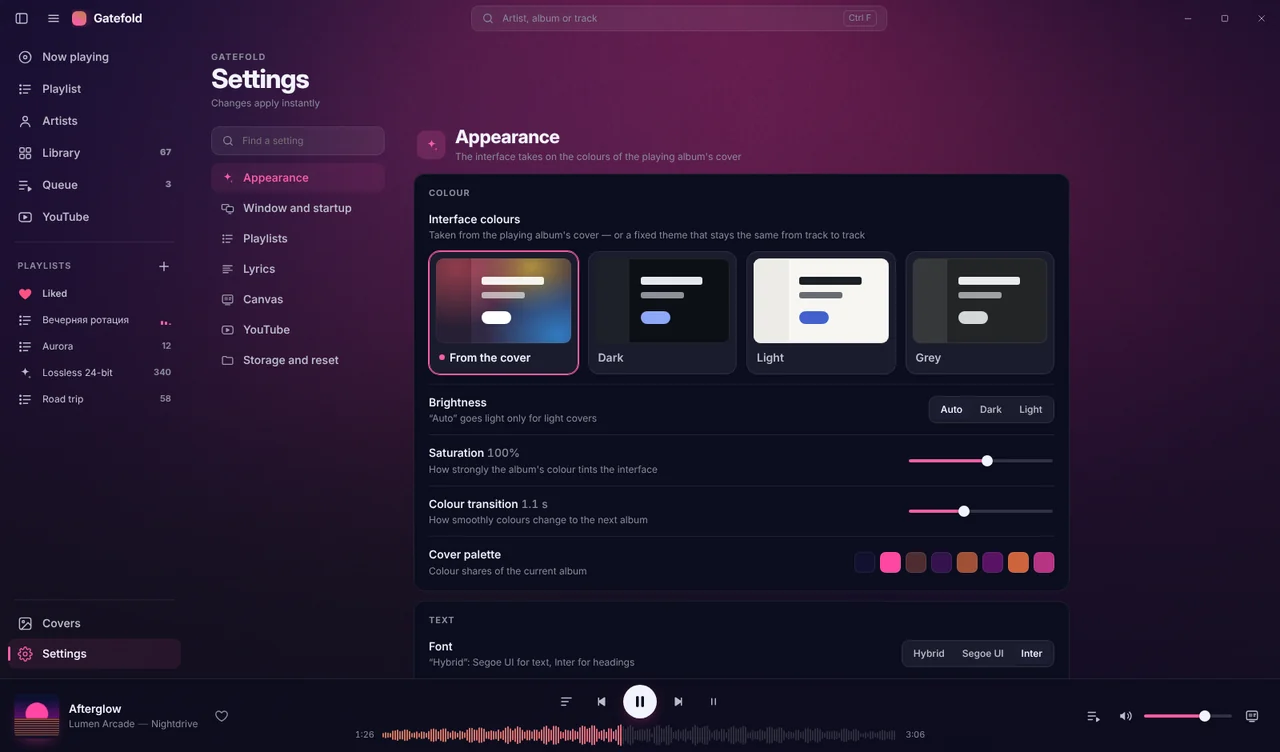
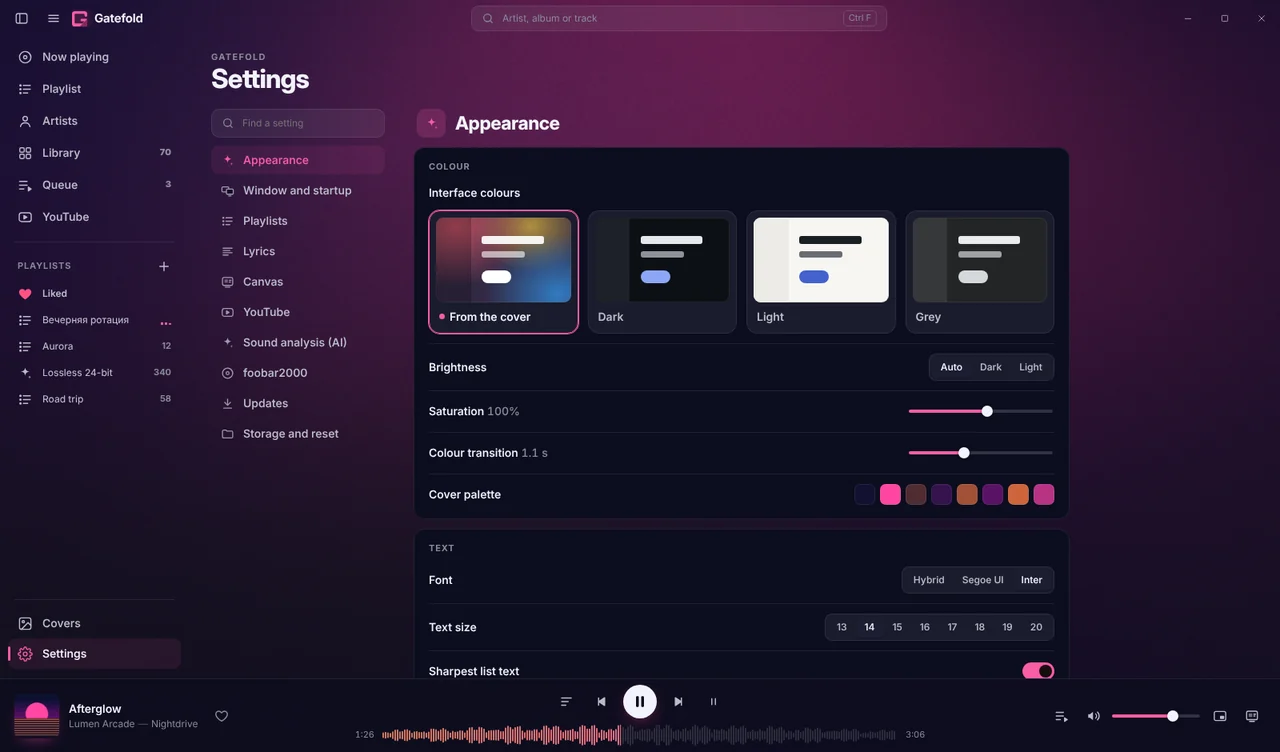
Release prep: README with the mark, new screenshots (colour wall, smart playlists) and a grouped feature list; clean 1.0.0 notes; release workflow dry run + archive check; CI logs only on failure; probe by hand only

diff --git a/tools/screenshots.py b/tools/screenshots.py
@@ -18,18 +18,20 @@ async def main():
         kw = {'executable_path': os.environ['CHROMIUM']} if os.environ.get('CHROMIUM') else {}
         b = await p.chromium.launch(**kw)
         shots = [
-            ('now', {'language': 'en'}, None),
-            ('playlist', {'language': 'en'}, "document.querySelector('#plModes [data-m=covers]').click()"),
-            ('library', {'language': 'en'}, None),
-            ('settings', {'language': 'en', 'colorSource': 'album'}, None),
-            ('now', {'language': 'en', 'colorSource': 'light'}, None),
-            ('now', {'language': 'ru'}, None),
+            ('now', {'language': 'en'}, None, 'now-en'),
+            ('playlist', {'language': 'en'}, "document.querySelector('#plModes [data-m=covers]').click()", 'playlist-en'),
+            ('library', {'language': 'en'}, None, 'library-en'),
+            ('library', {'language': 'en'}, "(async () => { const s = document.querySelector('#libSort'); s.value = 'color'; s.dispatchEvent(new Event('change')); await new Promise(r => setTimeout(r, 4500)); })()", 'colors-en'),
+            ('playlist', {'language': 'en'}, "import('/theme/js/smartpl.js').then(m => m.open('lossless'))", 'smart-en'),
+            ('settings', {'language': 'en', 'colorSource': 'album'}, None, 'settings-en'),
+            ('now', {'language': 'en', 'colorSource': 'light'}, None, 'now-light-en'),
+            ('now', {'language': 'ru'}, None, 'now-ru'),
         ]
-        for i, (view, st, js) in enumerate(shots):
+        for i, (view, st, js, name) in enumerate(shots):
             ctx, pg, errs = await e2e.page(b, port, st)
             await e2e.nav(pg, view, 1600)
-            if js: await pg.evaluate(js); await pg.wait_for_timeout(1400)
-            name = f"{view}{'-' + st.get('colorSource') if st.get('colorSource') not in (None, 'album') else ''}-{st['language']}.png"
+            if js: await pg.evaluate(js); await pg.wait_for_timeout(1600)
+            name += '.png'
             await pg.screenshot(path=str(OUT / name))
             from PIL import Image
             im = Image.open(OUT / name).convert('RGB'); im = im.resize((1280, round(im.height * 1280 / im.width)), Image.LANCZOS)

diff --git a/README.ru.md b/README.ru.md
@@ -1,38 +1,48 @@
-# Gatefold
+<p align="center"><img src="installer/assets/gatefold.svg" width="88" alt=""></p>
+<h1 align="center">Gatefold</h1>
+<p align="center"><b>Современный интерфейс для foobar2000, который берёт цвета из вашей музыки.</b><br>
+<a href="../../releases/latest"><b>Скачать установщик</b></a> · <a href="README.md">English version</a></p>
 
-**Современный интерфейс для foobar2000, который берёт цвета из вашей музыки.**
-[English version →](README.md)
-
-Gatefold — тема для компонента [foo_ui_webview2](https://github.com/NereaFantasia/foo_ui_webview2). Она заменяет интерфейс foobar2000 полноценным плеером на всё окно. Палитра на лету строится из обложки играющего альбома. В теме есть медиатека, исполнители, плейлисты, синхронный текст, полноэкранный «Холст», YouTube и автоматические обложки.
+Gatefold — тема для компонента [foo_ui_webview2](https://github.com/NereaFantasia/foo_ui_webview2). Она превращает foobar2000 в плеер на всё окно, палитра которого на лету строится из обложки играющего альбома: медиатека, исполнители, плейлисты, синхронный текст, полноэкранный «Холст», YouTube и (по желанию) анализ звука прямо на компьютере. Установщик всё настраивает сам: запустите его — и foobar2000 откроется в Gatefold.
 
 ![Сейчас играет](docs/screenshots/now-ru.webp)
 
-| Плейлист с обложками | Медиатека |
+| Плейлист с обложками | Медиатека по цвету обложек |
 |---|---|
-| ![Плейлист](docs/screenshots/playlist-en.webp) | ![Медиатека](docs/screenshots/library-en.webp) |
+| ![Плейлист](docs/screenshots/playlist-en.webp) | ![Стена по цветам](docs/screenshots/colors-en.webp) |
+| **Умные плейлисты** | **Постоянная светлая тема** |
+| ![Умные плейлисты](docs/screenshots/smart-en.webp) | ![Светлая тема](docs/screenshots/now-light-en.webp) |
 
 <sub>На скриншотах — условные обложки из тестовых данных, а не настоящие альбомы.</sub>
 
 ## Возможности
 
-- **Цвета из альбома.** Роли цветов подбираются из каждой обложки (k-means в OKLab) с контролем контраста по WCAG. Можно выбрать и постоянную тему: **Тёмную**, **Светлую** или **Серую**.
-- **«Сейчас играет».** Крупная обложка «дышит» под бас, спектр — в цветах альбома. Бейджи показывают кодек, разрядность и частоту, битрейт, DR, ReplayGain и число прослушиваний.
-- **Плейлисты в четырёх видах:** по альбомам, с обложками, плитками и компактно. Вид запоминается для каждого плейлиста.
-- **Настоящее редактирование плейлистов:** выделение с Shift/Ctrl, перетаскивание для порядка и на плейлист в боковой панели, Delete, Ctrl+Z (отмена самого foobar2000), Alt+↑/↓; плейлисты тоже переставляются перетаскиванием.
-- **Умные плейлисты без языка запросов:** недавно добавленные, самое любимое, забытые любимцы, ни разу не слушал, жанр, десятилетие, без потерь, Hi-Res… — с живым счётчиком подходящих треков. Пополняются сами.
-- **Радио «Похожее на это»:** похожие исполнители, которые у вас есть (связанные исполнители Deezer и их связанные; редкие жанры — как запасной вариант), и каждый трек-кандидат *прослушивается* — громкость, динамика, яркость, атака, темп, — чтобы грустное медленное не сменилось бешеным. Пропущенные исполнители звучат реже; плейлист сам пополняется.
-- **Анализ звука нейросетью (по желанию):** нейросеть Discogs-EffNet один раз слушает каждый трек медиатеки — у вас на компьютере, в фоне, не больше четверти одного ядра, пока вы работаете. С ней радио подбирает треки по тому, как они *звучат*, а не по тегам; «Похожие треки» собирают плейлист из самых близких по звучанию песен; в умных плейлистах появляются настроения (спокойное, энергичное, грустное, радостное, для вечеринки, инструментальное, акустическое) и 400 стилей Discogs; на «Сейчас играет» видны жанры и настроение трека — жанры альбома и исполнителя по голосам MusicBrainz, упорядоченные по звучанию трека; для исполнителей, которых MusicBrainz не знает, — жанры самых похоже звучащих. Модели (~30 МБ, CC BY-NC-SA 4.0, только некоммерческое использование) скачиваются, только когда вы включите это в Настройках → Анализ звука (ИИ).
-- **«Понравившиеся».** Сердечко есть в плеере и в каждой строке. Лайки хранятся в обычном плейлисте foobar2000.
-- **Медиатека и исполнители:** сетки обложек, сортировки по «недавно добавленным» и «проигранным», страницы альбомов. Альбомы, разбитые из-за гостевых исполнителей, склеиваются обратно.
-- **Стена по цветам:** сортировка медиатеки по цвету обложек — радуга ваших альбомов — и один из двенадцати подписанных цветов (от красного до розового, коричневый, белый, серый, чёрный), чтобы оставить только его. Каждой обложке достаётся цвет, которым её назвал бы человек: кожа, кремовый и бежевый считаются белым, рамка весит меньше картинки.
-- **Windows вокруг окна:** ⏮ ⏯ ⏭ ♡ в миниатюре на панели задач, прогресс на значке, по желанию значок в трее с меню плеера (сворачивать и закрывать в трей) и **мини-плеер** поверх всех окон.
-- **Синхронный текст:** из тегов или `.lrc` рядом с треком, затем онлайн (LRCLIB). Текущая строка подсвечивается, щелчок по строке перематывает, `[` и `]` сдвигают тайминг.
-- **Холст:** полноэкранный «Сейчас играет» с медленным движением, текстом и часами. Открывается и на втором мониторе.
-- **YouTube.** Видео открываются по ссылке, а со своим ключом YouTube Data API есть и поиск. Своя панель управления, выбор качества, очередь, история и мини-плеер. Музыка встаёт на паузу, пока идёт видео.
-- **Обложки:** поиск недостающих (iTunes · Deezer · MusicBrainz/CAA), проверка качества уже установленных и замена слабых с резервной копией.
-- **Ваш foobar2000 остаётся вашим.** Правый щелчок открывает родное контекстное меню, ☰ — полное главное меню, все компоненты на месте.
-- **Русский и английский языки.** Язык берётся из Windows или задаётся в Настройки → Окно и запуск → Язык.
-- **Режим приколов** (секрет: 10 щелчков по надписи «Gatefold») — три полноценных стиля интерфейса и 45 достижений.
+**Вид и прослушивание**
+- **Цвета из альбома** — роли цветов подбираются из каждой обложки (k-means в OKLab, контраст по WCAG). Или постоянная **Тёмная**, **Светлая** или **Серая** тема; размер текста 13–20 px; анимации на частоте вашего монитора.
+- **«Сейчас играет»** — крупная обложка «дышит» под бас, спектр в цветах альбома, бейджи формата (кодек, разрядность и частота, битрейт, DR, ReplayGain, число прослушиваний), синхронный текст и «Далее».
+- **Холст** — полноэкранный «Сейчас играет» с медленным движением, текстом и часами; открывается и на втором мониторе.
+- **Синхронный текст** из тегов, `.lrc` рядом с треком или LRCLIB; щелчок по строке перематывает, `[` `]` сдвигают тайминг.
+
+**Ваша музыка**
+- **Плейлисты в четырёх видах** (по альбомам, с обложками, плитками, компактно) с настоящим редактированием: выделение с Shift/Ctrl, перетаскивание внутри и на плейлист в боковой панели, Delete, Ctrl+Z, Alt+↑/↓.
+- **Медиатека и исполнители** — сетки обложек, страницы альбомов, фото исполнителей; альбомы, разбитые гостевыми исполнителями, склеиваются обратно. **Стена по цветам** сортирует медиатеку по цвету обложек и оставляет один из двенадцати подписанных цветов.
+- **Умные плейлисты без языка запросов** — недавно добавленные, самое любимое, забытые любимцы, ни разу не слушал, жанр, десятилетие, без потерь, Hi-Res, длинные треки или свой запрос; до создания видно, сколько треков подходит, и несколько примеров. Пополняются сами.
+- **Радио «Похожее на это»** — похожие исполнители, которые у вас есть, и каждый трек-кандидат проверяется по звучанию, чтобы настроение держалось; пропущенные исполнители звучат реже.
+- **«Понравившиеся»** — сердечко в плеере и в каждой строке, хранятся в обычном плейлисте foobar2000.
+- **Обложки** — поиск недостающих (iTunes · Deezer · MusicBrainz/CAA), проверка качества имеющихся и замена слабых (с резервной копией).
+
+**Анализ звука нейросетью (по желанию)**
+- Нейросеть Discogs-EffNet один раз слушает каждый трек медиатеки — у вас на компьютере, в фоне, с выбранной скоростью (от «Бережно» до «Максимум»). Результаты не покидают компьютер.
+- С ней радио и «Похожие треки» подбирают песни по тому, как они *звучат*; в умных плейлистах появляются настроения — спокойное, энергичное, грустное, радостное, для вечеринки, инструментальное (совсем без голоса), акустическое — и жанры по звучанию; на «Сейчас играет» видны жанры трека (голоса MusicBrainz, упорядоченные по звучанию) и настроение.
+- Модели (~30 МБ, CC BY-NC-SA 4.0, только некоммерческое использование) скачиваются, только когда вы включите это в Настройках → Анализ звука (ИИ).
+
+**Вокруг окна**
+- ⏮ ⏯ ⏭ ♡ в миниатюре на панели задач, прогресс на значке, по желанию значок в трее с меню плеера и **мини-плеер** поверх всех окон.
+- **YouTube** — по ссылке или поиск со своим ключом YouTube Data API; своя панель управления, качество, очередь, история и мини-плеер. Музыка встаёт на паузу, пока идёт видео.
+- **Ваш foobar2000 остаётся вашим** — правый щелчок открывает родное контекстное меню, ☰ — полное главное меню, все компоненты на месте. В Настройки → foobar2000 есть вывод звука, ReplayGain, DSP и всё дерево Advanced.
+- **Русский и английский** — язык берётся из Windows или задаётся в настройках.
+- **Обновление в один щелчок** из релизов этого репозитория, с проверкой контрольной суммы и «Вернуть предыдущую версию».
+- **Режим приколов** (секрет: 10 щелчков по надписи «Gatefold») — три стиля интерфейса и 45 достижений.
 
 ## Требования
 
@@ -104,7 +114,8 @@ Gatefold — тема для компонента [foo_ui_webview2](https://gith
 
 ## Если что-то не так
 
-- **Белая или тестовая страница** — не выбран шаблон `gatefold`, или `index.html` лежит не прямо в папке шаблона.
+- **foobar2000 открывается в старом интерфейсе** — выберите **Webview2 UI** в Preferences → Display (установщик делает это сам; это для ручной установки или если он не смог этого сделать).
+- **Белая или тестовая страница** — не выбран шаблон, или `index.html` лежит не прямо в папке шаблона.
 - **Обложки не скачиваются** — посмотрите «Последнюю ошибку» на экране «Обложки». В View → Console есть строки `[Gatefold]`. Если папка с музыкой только для чтения, сохранить обложку некуда.
 - **Странности с окном** — Настройки → Окно и запуск → выключите «Собственную рамку окна» и нажмите Ctrl+R.
 - **Отладка** — Preferences → WebView2 UI → включите DevTools, затем нажмите F12.

diff --git a/CHANGELOG.md b/CHANGELOG.md
@@ -4,44 +4,14 @@ All notable changes are listed here. Versions follow [Semantic Versioning](https
 
 ## [1.0.0] — first public release
 
-- **Gatefold** (formerly a private theme called “Aurora”): a full-window foobar2000 interface on foo_ui_webview2.
-- Album-driven colour, or fixed Dark / Light / Grey themes; text size 13–20 px.
-- Now playing, playlists in four views, Liked, library, artists, queue, search, synced lyrics, Canvas, YouTube, cover art tools.
-- English and Russian interface.
-- Unofficial lyrics sources and the unofficial YouTube search are off by default; YouTube search with your own Data API key.
-- Installer: installs or updates foobar2000 x64, foo_ui_webview2 and the WebView2 Runtime; updates an existing template in place.
-- One-click updates from GitHub Releases inside the interface: checksum-verified, with a backup and «Restore previous version»; falls back to the installer when a newer foo_ui_webview2 is required.
-- The theme's own tooltips replace the native ones, which foobar2000's window drew away from the cursor and cut off.
-- Volume control in Canvas (slider, mouse wheel, ↑/↓, M).
-- First run: while foobar2000 has no music, «Now playing» shows a welcome — connect a music folder to the library (opens the right foobar2000 page, waits, then opens Library) or open a folder / files to play right away. Empty Library, Artists and playlist screens offer the same buttons.
-- Playlist editing: multi-select, Delete, drag to reorder or onto a sidebar playlist, undo/redo, Alt+↑/↓, a selection bar and a context menu of our own; playlists reorder by dragging.
-- Taskbar thumbnail buttons (translated, with ♡), taskbar progress, optional tray icon with a player menu, minimize/close to tray; a mini player window.
-- Smart playlists from recipes, with a live match count.
-- Library → «By cover colour» with a colour ribbon filter.
-- «More like this» radio from your own library: Deezer related artists (two steps), IDF-weighted genres as a fallback, every candidate track measured by sound (vibe.js) and kept close to the seed's feel; skips lower an artist; tops itself up.
-- Radio, second pass: second-step related artists only when several related artists point to them; major/minor key from the chroma as a sound feature; the target stays at the seed's feel; «Not this — no more <artist>» in a radio's context menu.
-- The theme's own drop-down lists: the native ones opened away from the control and were cut off.
-- Fix: two different albums with the same title in one folder (e.g. «Eternity» by Anathema and by Kamelot) were merged into one.
-- Menus open above dialogs.
-- **Sound analysis (AI)**, optional: Discogs-EffNet and its mood heads run in a Web Worker (onnxruntime-web, WebAssembly, one thread) over two 8-second pieces of every track, decoded by foobar2000 at 16 kHz; the mel front end matches Essentia's to 4·10⁻⁶. A background indexer (playing track and radio candidates first; ≤ ¼ core while you work, ≤ ½ when away, paused on battery) keeps the results in IndexedDB. The models are built and checked against Essentia by the «ML assets» workflow and downloaded on request.
-- Radio v3 (with the analysis): artists that sound like the seed join the candidates; of each artist the closest-sounding analysed track is played; at most 4 tracks per artist in any 25.
-- «Similar tracks» (Now playing, track menu), mood and style playlists (Smart playlist → By sound), style and mood chips on Now playing.
-- Colour wall, second version: twelve named colours with their names and counts on the ribbon; each pixel is named in OKLCH (borders where colour names change), vivid pixels and the centre weigh more, skin / cream / beige count as white; a strong second colour also lists the cover (after the main ones).
-- Lighter on the computer: the background blobs are painted into a small canvas 12 times a second instead of four screen-sized layers composited 60 times a second; the spectrum is drawn at most 60 times a second on high-refresh screens; away from Now playing the progress bar wakes only when it moves a pixel; the sound analysis decodes the next track while the network works on the current one, paces itself by the work actually done (not by waiting for foobar2000) and reads two 8-second pieces instead of three 6-second ones; its results load in batches.
-- Sound analysis, third pass: 44 s of each track (two 24-second pieces, non-overlapping patches) instead of 16 s; the styles shown are weighed with the album's average (Discogs labels releases) and against your library (a specific style beats «Heavy Metal»), a style named by your genre tag counts extra, and the chip's tooltip lists what the network hears; «Analysis speed»: Gentle / Normal / Fast / Maximum (up to three networks at once); decoding at the file's own rate with resampling in Gatefold when foobar2000's resampler is the slower path (measured once a week).
-- Genres, done the way streaming services do: your specific genre tag, else MusicBrainz genres of the album (release group) and the artist — the artist verified against your albums — ordered by the network's per-track estimate; for artists MusicBrainz lacks, the genres of the closest-sounding tracks by artists it knows; the network's Discogs styles only as the last resort. The network alone confused subgenres (Ensiferum as «Gothic Metal», Carcass as «Nu Metal»). «Genre by sound» smart playlists use the same genres. MusicBrainz requests are shared with the cover search's rate limit, which now also holds for callers running side by side.
-- Mood playlists are made of songs: intros, interludes, outros and pieces under 2:20 are left out (they are quiet and filled «Calm»); «Calm» prefers songs with a voice; at most two tracks per album.
-- Less text: settings rows are a label and a control (the explanations live on as code comments), no section subtitles, smart-playlist cards are just names, shorter toasts, empty states and welcome screen; about 170 interface strings fewer. `node tools/check.mjs --prune` drops translations nothing uses any more.
-- «Animation smoothness»: as the monitor (default — spectrum, cover and background at 120/144/240 Hz) or economical (spectrum ≤ 60 fps, background 12 fps).
-- Settings → foobar2000: output device and buffer, ReplayGain, DSP preset, playlist cursor behaviour, library folders and the whole Advanced tree with search — in the theme instead of the native Preferences dialog, which stays one click away.
-- Fix: clicks sometimes stopped working (the cursor moved and the wheel scrolled, but no button reacted). Pulling a cover, a link or selected text a few pixels started a native drag-and-drop whose end never reached the page under foo_ui_webview2, leaving it «in a drag» for good; the page no longer starts native drags. Also: the «drop files here» overlay can no longer outlive a cancelled drag from Explorer and cover the screen, half-finished drags (seek bar, playlist rows) reset when the window loses the mouse or focus, and a menu replaced by another one settles cleanly. New stability test: seeded random clicking across every screen, a track-change storm, DOM and listener counts over many screen changes.
-- Fix: «Instrumental» took sung tracks. A track's voice/instrumental score was averaged over the whole piece, and anything above 35 % instrumental qualified — a song with a long guitar solo, or growls under distorted guitars (where the network says ≈ 50/50), got in. Now the voice must win (almost) no part of the track (≥ 88 % of the analysed patches instrumental, and a clear average); a band that sings on everything else needs an even clearer case; «(Instrumental)» in the title always counts. Tracks analysed before keep a stricter average until they are looked at again in the background.
-- Every sound playlist has hard limits as well as a ranking: «Sad» is not also happy or party, «Calm» not aggressive or danceable, «Party» is danceable, «Acoustic» not electronic, and so on — nothing gets in on a weak middle score. The mood chips in Now playing follow the same rule (a mood is named only when its opposite is not heard too).
-- New smart-playlist window: recipes in three groups on the left (by listening, by tags, by sound — each sound recipe with its own icon and colour), the chosen one on the right with the live count in large type, its one setting, five tracks it would take, and the name and «Create» at the bottom; ↑/↓ walk the recipes. No more names running out of their tiles.
-- Fix: with large text, the lyrics or the «Up next» list ran under the player bar (Now playing now gives the panel only the room left); the mini player hides the times, then like and volume, before its controls run out of room; the Canvas window keeps its controls clear of the cover in small windows. A layout test checks every screen in both languages at 20 px text, narrow and wide, for text over text, text out of its box and controls over text.
-- Installer: «Gatefold» shortcuts in the Start menu and (optionally) on the desktop, with Gatefold's icon — pinned to the taskbar, the button keeps it. The window itself still shows foobar2000's icon: foo_ui_webview2 has no way to change it yet (requested in docs/UPSTREAM_REQUEST.md).
-- New icon: a G whose lower-right corner folds over like the panel of a gatefold sleeve (installer/assets/gatefold.svg) — for the installer, the shortcuts and the tray; next to the name in the window it takes the colours of the cover.
-- Installer: foobar2000 opens straight in Gatefold — no «New user interface module(s) found» question and no trip to Preferences. The installer sets Webview2 UI as the interface in foobar2000's configuration (`<profile>\config.sqlite`, the two values found by running foobar2000 2.26 on a clean Windows in CI), after a backup to `config.sqlite.before-gatefold`; if anything goes wrong nothing changes and the finish page shows the manual step as before. CI checks it: a silent install on a clean machine, then foobar2000's first start must be Gatefold.
-- Fix: on a small screen the first window could open larger than the screen, with its left edge and the sidebar out of reach; it is now fitted onto the screen and centred (a window kept partly on another monitor is left alone).
+Gatefold turns foobar2000 (2.x, 64-bit) into a full-window player on foo_ui_webview2 whose colours come from the cover of the playing album.
 
-The history before the public release (in Russian) is in [docs/HISTORY.ru.md](docs/HISTORY.ru.md).
+**Install** — one installer sets up foobar2000, foo_ui_webview2, the WebView2 Runtime and the theme, adds Gatefold shortcuts and makes Webview2 UI foobar2000's interface: foobar2000 opens straight in Gatefold (the previous configuration is backed up). Updates come later in one click, checksum-verified, with «Restore previous version».
+
+**Looks** — album-driven colour (or fixed Dark / Light / Grey), text size 13–20 px, animations at the monitor's refresh rate; Now playing with a breathing cover, spectrum, format badges and synced lyrics; full-screen Canvas, also on a second monitor; a mini player; taskbar buttons, progress and an optional tray icon.
+
+**Music** — playlists in four views with real editing (multi-select, drag, Delete, undo); Liked; library, artists and album pages; the colour wall (the library by cover colour, twelve named colours); smart playlists without the query language, with a live count and example tracks; «More like this» radio from your own library; cover art search and quality checks.
+
+**Sound analysis (optional, on your computer)** — a neural network listens to each track once; then radio and «Similar tracks» go by sound, smart playlists gain moods (calm, energetic, sad, happy, party, instrumental, acoustic) and genres by sound, and Now playing shows the track's genres (MusicBrainz, ordered by sound) and mood.
+
+**Also** — YouTube (links, or search with your own API key), foobar2000's own menus and settings inside the theme, English and Russian. No telemetry; every network request belongs to a feature (see Privacy in the README). Unofficial lyrics sources and the key-less YouTube search are off by default.

diff --git a/README.md b/README.md
@@ -1,40 +1,48 @@
-# Gatefold
+<p align="center"><img src="installer/assets/gatefold.svg" width="88" alt=""></p>
+<h1 align="center">Gatefold</h1>
+<p align="center"><b>A modern interface for foobar2000 that takes its colours from your music.</b><br>
+<a href="../../releases/latest"><b>Download the installer</b></a> · <a href="README.ru.md">Русская версия</a></p>
 
-**A modern interface for foobar2000 that takes its colours from your music.**
-[Русская версия →](README.ru.md)
-
-Gatefold is a theme for the [foo_ui_webview2](https://github.com/NereaFantasia/foo_ui_webview2) component. It replaces foobar2000's interface with a full-window player. The palette is built live from the cover art of the playing album, and the theme covers the whole player: library, artists, playlists, synced lyrics, a full-screen “Canvas” mode, YouTube, and automatic cover art.
+Gatefold is a theme for the [foo_ui_webview2](https://github.com/NereaFantasia/foo_ui_webview2) component. It turns foobar2000 into a full-window player whose palette is built live from the cover of the playing album — with your library, artists, playlists, synced lyrics, a full-screen Canvas, YouTube and an optional on-device sound analysis. The installer sets everything up: run it, and foobar2000 opens in Gatefold.
 
 ![Now playing](docs/screenshots/now-en.webp)
 
-| Playlist with covers | Library |
+| Playlist with covers | Library by cover colour |
 |---|---|
-| ![Playlist](docs/screenshots/playlist-en.webp) | ![Library](docs/screenshots/library-en.webp) |
-| **Settings** | **Fixed light theme** |
-| ![Settings](docs/screenshots/settings-en.webp) | ![Light theme](docs/screenshots/now-light-en.webp) |
+| ![Playlist](docs/screenshots/playlist-en.webp) | ![Colour wall](docs/screenshots/colors-en.webp) |
+| **Smart playlists** | **Fixed light theme** |
+| ![Smart playlists](docs/screenshots/smart-en.webp) | ![Light theme](docs/screenshots/now-light-en.webp) |
 
 <sub>Screenshots use placeholder artwork from the test fixtures, not real album covers.</sub>
 
 ## Features
 
-- **Album-driven colour.** k-means in OKLab picks the colour roles from each cover, with WCAG contrast control. Or choose a fixed **Dark**, **Light** or **Grey** theme.
-- **Now playing:** a large cover that breathes with the bass and a spectrum in the album's colours. Format badges show codec, bit depth / sample rate, bitrate, DR, ReplayGain and play count.
-- **Playlists in four views:** by album, with covers, tiles and compact. Each playlist remembers its own view.
-- **Real playlist editing:** select with Shift/Ctrl, drag to reorder or onto a playlist in the sidebar, Delete, Ctrl+Z (foobar2000's own undo), Alt+↑/↓; drag playlists to reorder them.
-- **Smart playlists without the query language:** recently added, most played, forgotten favourites, never played, a genre, a decade, lossless, hi-res… with a live count of matching tracks. They stay up to date by themselves.
-- **«More like this» radio:** similar artists you actually have (Deezer's related artists and theirs; specific genres as a fallback), and every candidate track is *listened to* — loudness, dynamics, brightness, attack, tempo — so a sad slow seed doesn't turn into a frantic one. Skipped artists come up less; the playlist keeps topping itself up.
-- **Sound analysis (AI), optional:** a neural network (Discogs-EffNet) listens to every track of your library once — on your computer, in the background, at most a quarter of one CPU core while you work. With it the radio picks tracks by how they *sound* (not by tags), **Similar tracks** builds a playlist of the closest-sounding songs, smart playlists gain moods (calm, energetic, sad, happy, party, instrumental, acoustic) and 400 Discogs styles, and Now playing shows the track's genres and mood — genres voted on MusicBrainz for the album and the artist, ordered by how the track sounds; for artists MusicBrainz does not know, the genres of the artists that sound closest. The models (~30 MB, CC BY-NC-SA 4.0, non-commercial) are downloaded only when you turn it on in Settings → Sound analysis (AI).
-- **Liked** — a heart in the player and on every row. Likes are stored in an ordinary foobar2000 playlist.
-- **Library and Artists:** cover grids, sorting by recently added or played, and album pages. Albums split by guest artists are merged back into one.
-- **The colour wall:** sort the library by cover colour — a rainbow of your albums — and pick one of twelve named colours (red … pink, brown, white, grey, black) to see only those covers. Every cover gets the colour a person would name: skin, cream and beige count as white, a frame counts less than the picture.
-- **Windows around the window:** ⏮ ⏯ ⏭ ♡ on the taskbar thumbnail, progress on the taskbar button, an optional tray icon with a player menu (minimize / close to tray), and a **mini player** that stays above other windows.
-- **Synced lyrics:** from tags or an `.lrc` next to the track, then online (LRCLIB). Lines are highlighted as they play, click a line to seek, and `[` `]` adjust the timing.
-- **Canvas:** full-screen Now playing with slow motion, lyrics and a clock. It can open on a second monitor.
-- **YouTube:** paste a link, or search with your own YouTube Data API key. The player has its own controls, quality selection, a queue, history and a mini player. Music pauses while a video plays.
-- **Cover art:** finds missing covers (iTunes · Deezer · MusicBrainz/CAA), checks the quality of the covers you have, and replaces weak ones (with backups).
-- **Your foobar2000 stays yours:** right-click opens the native context menu, ☰ opens the full main menu, and all your components still work.
-- **English and Russian** — picked from Windows, or set in Settings → Window and startup → Language.
-- **Fun mode** (hidden — click the “Gatefold” title ten times): three complete interface styles and 45 achievements.
+**Looks and listening**
+- **Album-driven colour** — the colour roles are picked from each cover (k-means in OKLab, WCAG contrast). Or a fixed **Dark**, **Light** or **Grey** theme; text size 13–20 px; animations at your monitor's refresh rate.
+- **Now playing** — a large cover that breathes with the bass, a spectrum in the album's colours, format badges (codec, bit depth / sample rate, bitrate, DR, ReplayGain, play count), synced lyrics and up next.
+- **Canvas** — full-screen Now playing with slow motion, lyrics and a clock; it can open on a second monitor.
+- **Synced lyrics** from tags, an `.lrc` next to the track or LRCLIB; click a line to seek, `[` `]` to adjust the timing.
+
+**Your music**
+- **Playlists in four views** (by album, with covers, tiles, compact) with real editing: Shift/Ctrl selection, drag to reorder or onto a sidebar playlist, Delete, Ctrl+Z, Alt+↑/↓.
+- **Library and Artists** — cover grids, album pages, artist photos; albums split by guest artists are merged back. **The colour wall** sorts the library by cover colour and filters by one of twelve named colours.
+- **Smart playlists without the query language** — recently added, most played, forgotten favourites, never played, a genre, a decade, lossless, hi-res, long tracks or your own query; a live count and a few example tracks before you create it. They stay up to date by themselves.
+- **«More like this» radio** — similar artists you actually have, every candidate track measured by its sound so the mood holds; skipped artists come up less.
+- **Liked** — a heart in the player and on every row, kept in an ordinary foobar2000 playlist.
+- **Cover art** — finds missing covers (iTunes · Deezer · MusicBrainz/CAA), checks the quality of the ones you have and replaces weak ones (with backups).
+
+**Sound analysis (AI), optional**
+- A neural network (Discogs-EffNet) listens to each track of your library once — on your computer, in the background, at the speed you choose (from Gentle to Maximum). The analysis never leaves your computer.
+- With it the radio and **Similar tracks** pick songs by how they *sound*; smart playlists gain moods — calm, energetic, sad, happy, party, instrumental (no voice at all), acoustic — and genres by sound; Now playing shows the track's genres (MusicBrainz votes, ordered by how the track sounds) and its mood.
+- The models (~30 MB, CC BY-NC-SA 4.0, non-commercial) are downloaded only when you turn it on in Settings → Sound analysis (AI).
+
+**Around the window**
+- ⏮ ⏯ ⏭ ♡ on the taskbar thumbnail, progress on the taskbar button, an optional tray icon with a player menu, and a **mini player** that stays above other windows.
+- **YouTube** — paste a link, or search with your own YouTube Data API key; its own controls, quality, queue, history and mini player. Music pauses while a video plays.
+- **Your foobar2000 stays yours** — right-click opens the native context menu, ☰ the full main menu, and all your components still work. Settings → foobar2000 covers output, ReplayGain, DSP and the whole Advanced tree.
+- **English and Russian**, picked from Windows or set in Settings.
+- **One-click updates** from this repository's releases, checksum-verified, with «Restore previous version».
+- **Fun mode** (hidden — click the “Gatefold” title ten times): three interface styles and 45 achievements.
 
 ## Requirements
 
@@ -106,7 +114,8 @@ On the YouTube screen: Space/K play/pause · J/L ±10 s · F full screen · T th
 
 ## Troubleshooting
 
-- **A white or test page** — the `gatefold` template isn't selected, or `index.html` isn't directly inside the template folder.
+- **foobar2000 opens in its old interface** — choose **Webview2 UI** in Preferences → Display (the installer does this itself; this is for manual installs, or when its backup step could not run).
+- **A white or test page** — the template isn't selected, or `index.html` isn't directly inside the template folder.
 - **Covers aren't downloaded** — open the Covers screen and check *Last error*. View → Console shows `[Gatefold]` lines. A read-only music folder has nowhere to save covers.
 - **Odd window behaviour** — Settings → Window and startup → turn off *Custom window frame*, then press Ctrl+R.
 - **Debugging** — Preferences → WebView2 UI → enable DevTools, then press F12.
